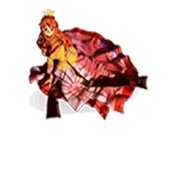
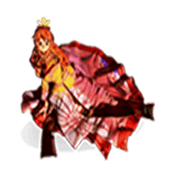
更换娃娃图片并提交登录备注

diff --git a/src/components/Login/Login.vue b/src/components/Login/Login.vue
@@ -28,21 +28,19 @@ export default {
         }
     },
     created() {
-        //判断是从哪里跳过来的
-        console.log(window.location.href,'log');
-
-            let params  = window.location.href.split('?')[1];
-            let item = {},name;
-            params = params.split('&');
-            params.forEach((val,key)=>{
-                name = val.split('=')[0];
-                val = val.split('=')[1];
-                item[name] = val;
-            })
-            this.device = item.code;
-            if(isNaN(this.device) && this.device){
-                this.device ='1';
-            }
+        //http://192.168.1.8:8889/#/login?code=1,从url获取参数塞到登录地址
+        let params  = window.location.href.split('?')[1];
+        let item = {},name;
+        params = params.split('&');
+        params.forEach((val,key)=>{
+            name = val.split('=')[0];
+            val = val.split('=')[1];
+            item[name] = val;
+        })
+        this.device = item.code;
+        if(isNaN(this.device) && this.device){
+            this.device ='1';
+        }
     },
     methods: {
         wxLogin() {

diff --git a/src/components/Game/profile.vue b/src/components/Game/profile.vue
@@ -118,9 +118,8 @@ export default {
         this.selected = 'home'; //默认选中home页
         getLocation().then((res)=>{
             localStorage.setItem('locationObj', JSON.stringify(res.data));
-            console.log(localStorage.getItem('locationObj'))
+            // console.log(localStorage.getItem('locationObj'))
         });
-
     },
     mounted(){
         //获取列表
